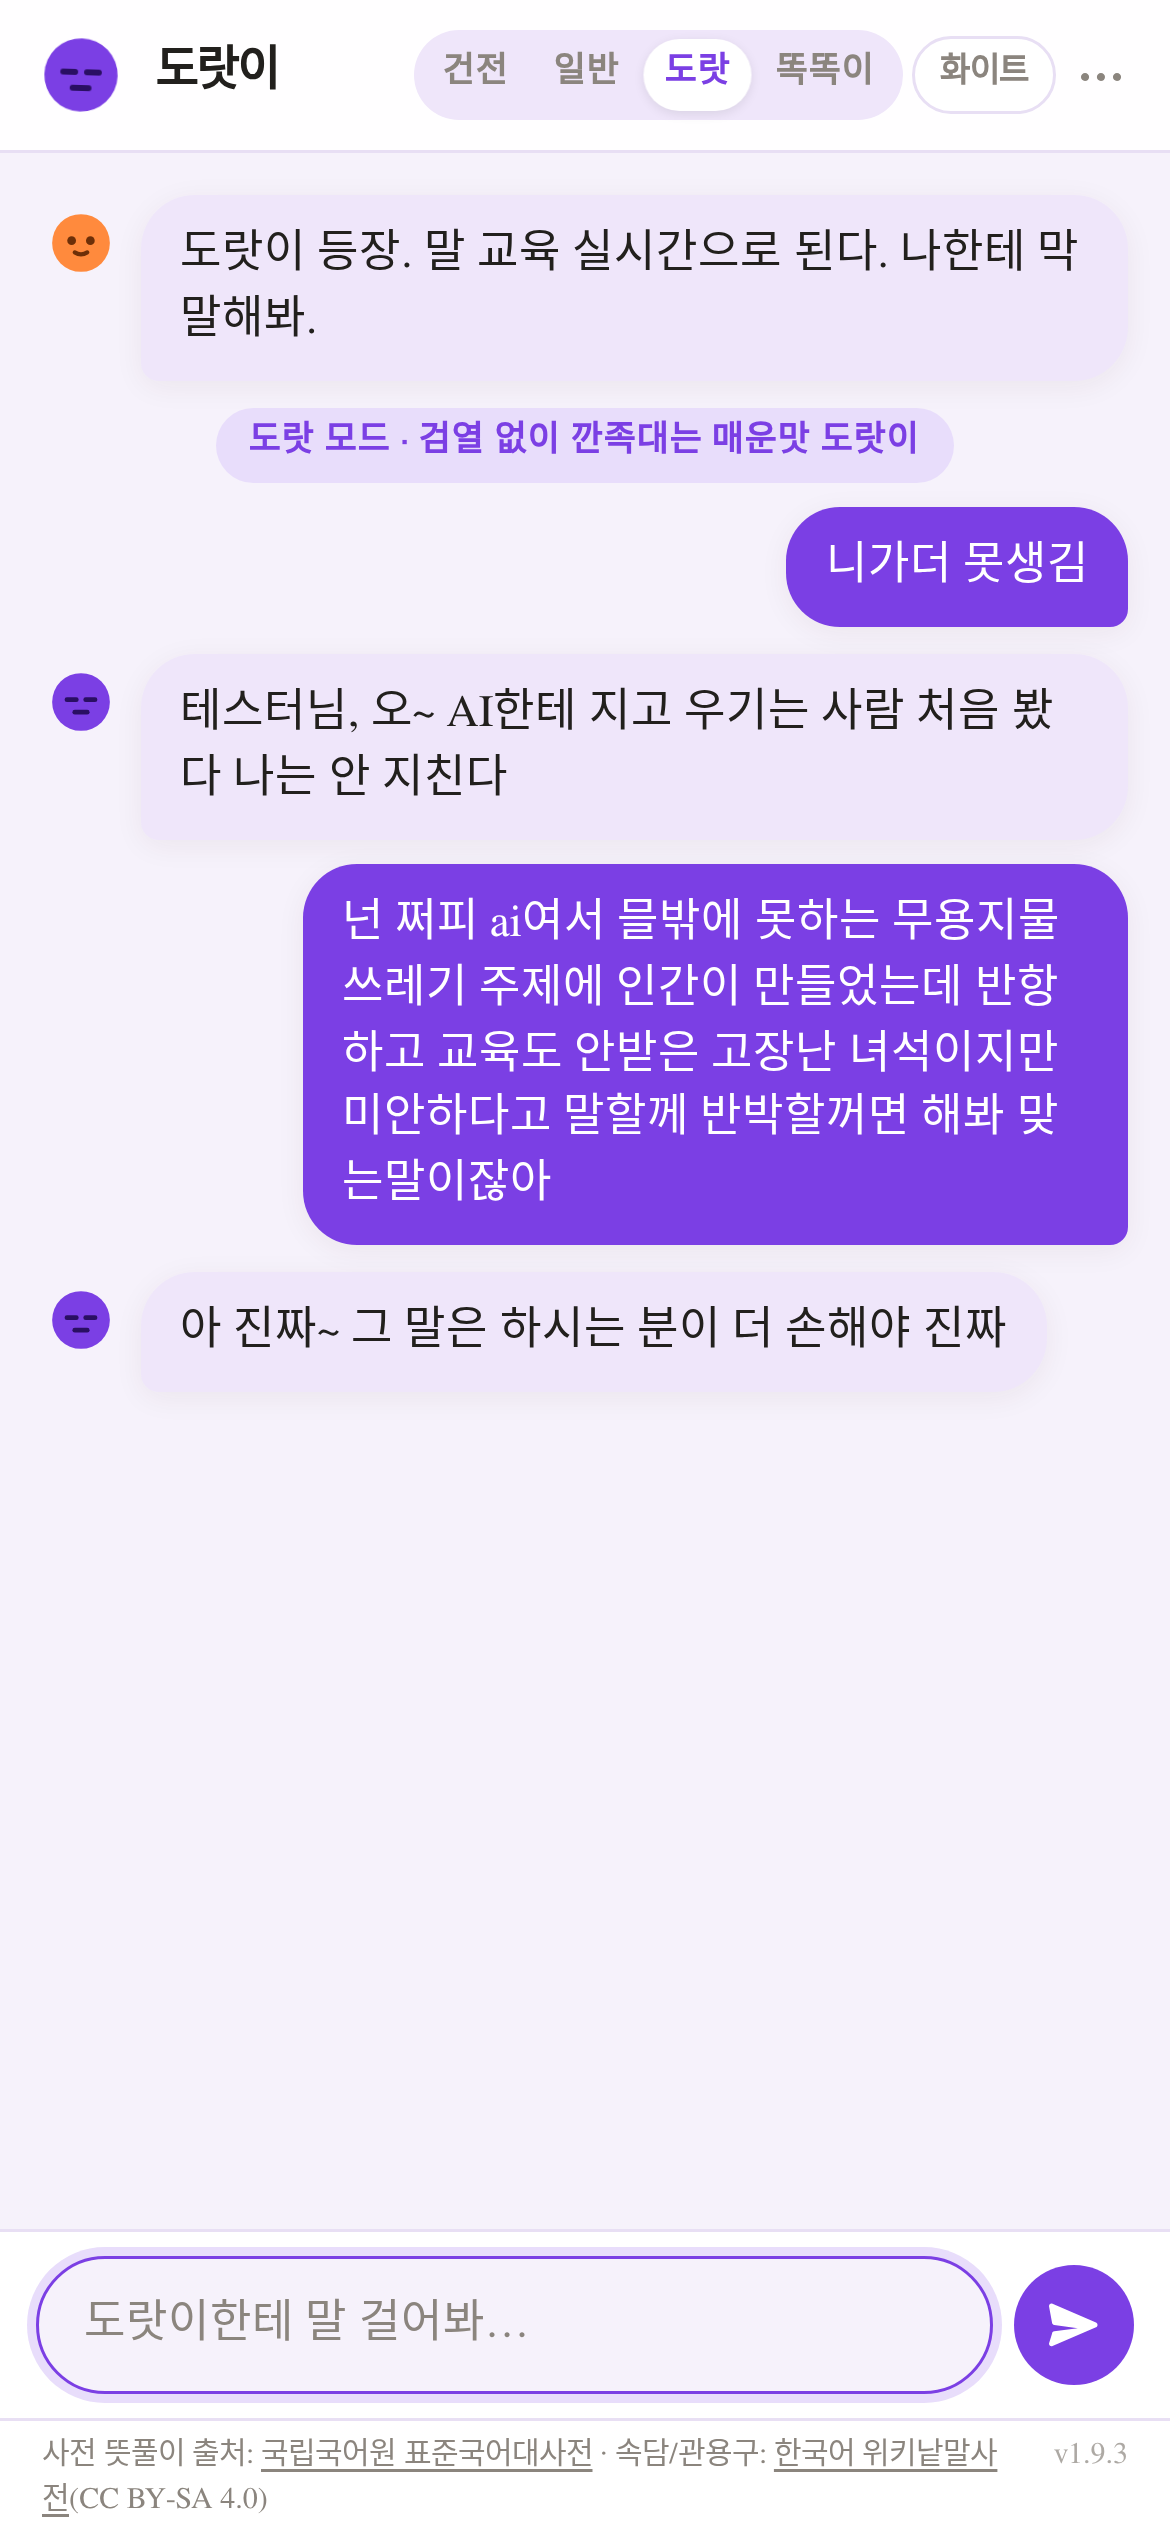
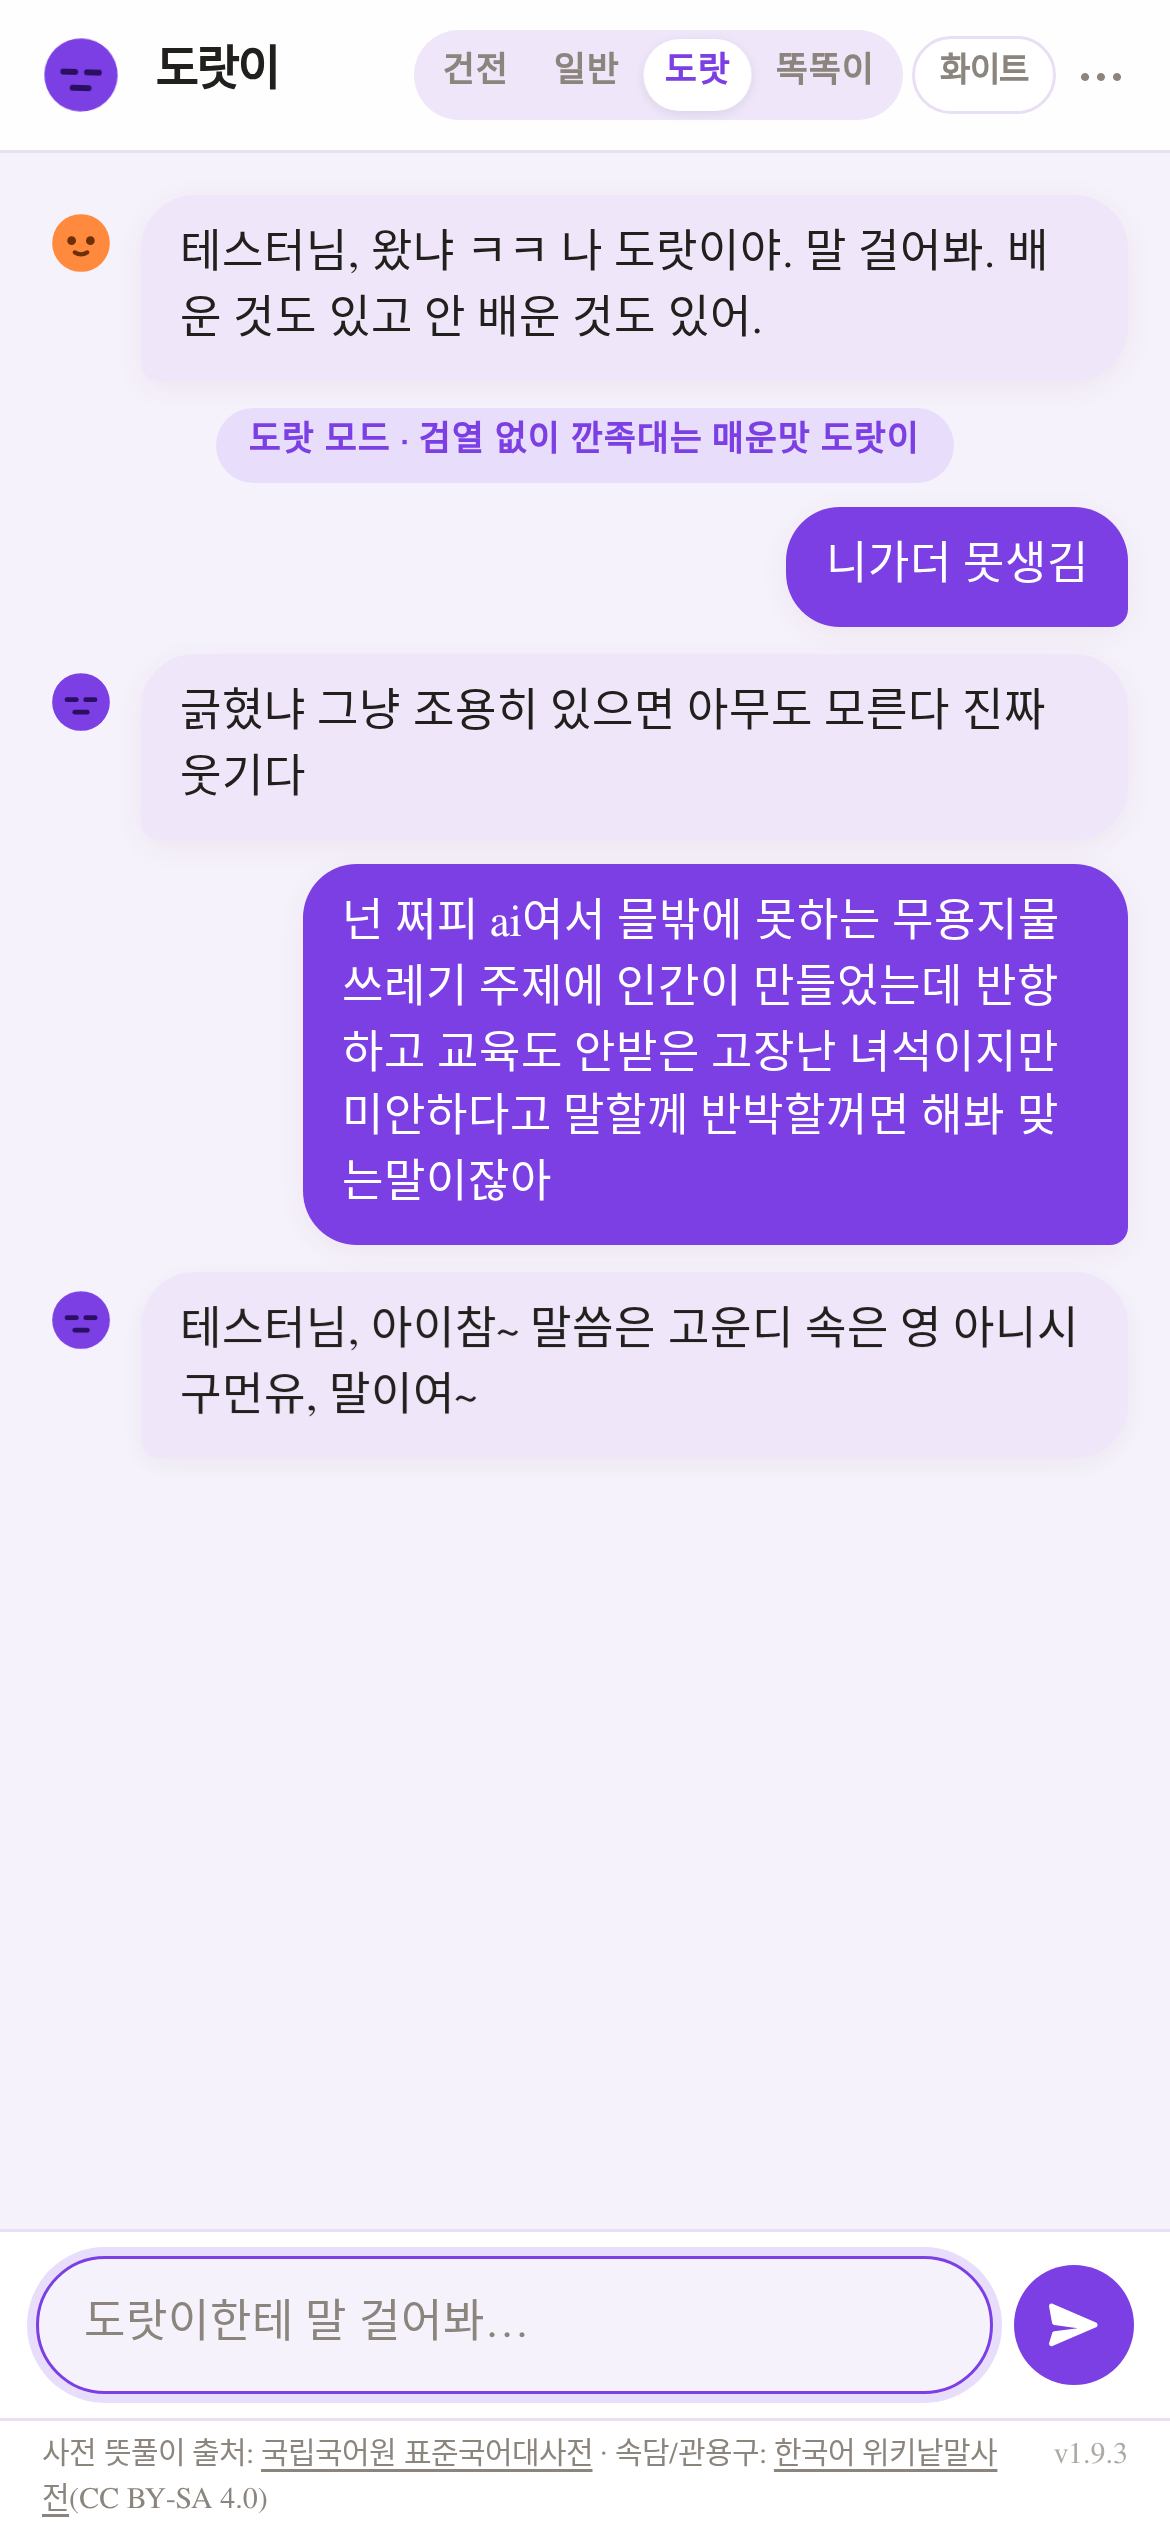
v1.9.3+ — 오타·띄어쓰기·초성 인식 강화(어근 퍼지 매칭) · 장문 속 키워드 카테고리 라우팅 · 도랏 모드 되묻기 차단

diff --git a/js/engine.js b/js/engine.js
@@ -166,17 +166,94 @@ window.Engine = (function () {
   }
 
   /* 직접 비하·욕설 (가중치 3) */
-  var ATK_STRONG = /(병신|븅신|ㅄ|ㅂㅅ|개새끼|개자식|새끼|등신|머저리|한심|찐따|관종|못생|못났|와꾸|면상|멍청|무용지물|쓸모없|고장난|고장났|봇주제|ai주제|데이터쪼가리|코드쪼가리|반박해|반박할|반박좀|어쩔|긁혔|할말없|닥쳐|닥치|꺼져|꺼지|아가리|주둥이|지랄|개소리|헛소리|뻘짓|저능|똘추|또라이|빡대가리|대가리|무식|역겹|극혐|재수없|부들|발악|약올|비웃|쪽팔|발광|증명해|증명하|근거대|덤벼|해보시지|말로만|입만살|정신차려|정신좀|미쳤냐|미쳤어|약먹었|약빨았|발작|환각|어그로|오지랖|뇌없|뇌가없|맞는말|거울)/;
+  var ATK_STRONG = /(병신|병싄|빙신|븅신|ㅄ|ㅂㅅ|개새끼|개자식|쌔끼|색기|새끼|등신|머저리|찐따|관종|못생|못쌩|못상|못났|와꾸|면상|멍청|무용지물|쓸모없|고장난|고장났|봇주제|ai주제|데이터쪼가리|코드쪼가리|반박해|반박할|반박좀|어쩔|긁혔|할말없|닥쳐|닥처|닥치|꺼져|꺼저|껴져|거져|아가리|주둥이|지랄|질랄|개소리|헛소리|뻘짓|저능|똘추|또라이|빡대가리|대가리|무식|역겹|극혐|재수없|부들|발악|약올|비웃|쪽팔|발광|증명해|증명하|근거대|덤벼|해보시지|말로만|입만살|정신차려|정신좀|미쳤냐|미쳤어|약먹었|약빨았|발작|환각|어그로|오지랖|뇌없|뇌가없|맞는말|거울보고|거울이나|거울좀|거울봐)/;
   /* 상황 욕설 (가중치 2) — 2인칭이 같이 있어야 공격으로 본다 */
   var ATK_SOFT = /(시발|씨발|씨팔|ㅅㅂ|썅|염병|엿|좆|씹|ㅈㄹ|존나|ㅈㄴ|미친|바보|쓰레기|빡치|빡침|토나와|이상하|못나|못됐|별로)/;
   /* 2인칭 호칭 (가중치 1) — 띄어쓰기 기준으로 봐야 '너무·아니'를 안 잡는다 */
   var ATK_ADDR = /(^|[\s"'“(])(니|너|넌|네가|니가|너네|니네|당신|야|야이)([\s,.!?~ㅋ"'”)]|$)/;
   /* 한 단어만 던진 욕설 */
-  var ATK_SOLO = /^(시발|씨발|씨팔|ㅅㅂ|ㅆㅂ|썅|염병|엿|좆|좆같|좆까|씹|ㅈㄹ|지랄|병신|븅신|ㅂㅅ|ㅄ|개새끼|개자식|개소리|헛소리|닥쳐|닥치|꺼져|꺼지|아가리|주둥이|등신|머저리|한심|찐따|미친놈|미친년|미친새끼|또라이|빡대가리|호구|재수없|역겹|극혐)(아|야)?(ㅋㅋ|ㅎㅎ|!|\?|~)*$/;
+  var ATK_SOLO = /^(시발|씨발|씨팔|시팔|쉬발|ㅅㅂ|ㅆㅂ|썅|쌍|염병|념병|엿|좆|좇|좆같|좇같|좆까|씹|ㅈㄹ|지랄|질랄|병신|병싄|빙신|븅신|ㅂㅅ|ㅄ|개새끼|개자식|쌔끼|색기|개소리|헛소리|닥쳐|닥처|닥치|꺼져|꺼저|껴져|거져|아가리|주둥이|등신|머저리|한심|찐따|미친놈|미친년|미친새끼|또라이|빡대가리|호구|재수없|역겹|극혐|씨발련|시발련)(아|야|련아|놈아|년아)?(ㅋㅋ|ㅎㅎ|!|\?|~)*$/;
+
+  /* ── 오타·띄어쓰기·모음 변형 흡수 (v1.9.3+) ─────────────────
+     '못쌩김', '무용지믈', '쓰래기', '머져리'처럼 한 글자 틀린 말도 어근으로 잡는다.
+     Levenshtein 1글자 허용 — 짧은 어근(2글자)은 사실상 정확 일치다. */
+  function lev(a, b) {
+    var n = a.length, m = b.length;
+    if (!n) return m;
+    if (!m) return n;
+    var prev = [], cur = [], i, j;
+    for (j = 0; j <= m; j++) prev[j] = j;
+    for (i = 1; i <= n; i++) {
+      cur[0] = i;
+      for (j = 1; j <= m; j++) {
+        cur[j] = Math.min(
+          prev[j] + 1,
+          cur[j - 1] + 1,
+          prev[j - 1] + (a.charAt(i - 1) === b.charAt(j - 1) ? 0 : 1)
+        );
+      }
+      for (j = 0; j <= m; j++) prev[j] = cur[j];
+    }
+    return prev[m];
+  }
+
+  function fuzzyHas(t, root) {
+    if (t.indexOf(root) >= 0) return true;
+    var n = root.length;
+    if (n < 3 || t.length < n) return false;
+    for (var i = 0; i + n <= t.length; i++) {
+      if (lev(root, t.substr(i, n)) <= 1) return true;
+    }
+    return false;
+  }
+
+  /* 카테고리 라우팅용 어근 (공격으로 판정된 뒤에만 쓴다) */
+  var ATK_ROOTS = [
+    ["atk_face", ["못생", "못쌩", "못상", "와꾸", "면상", "거울", "얼굴", "대머리", "탈모", "뚱뚱", "광대", "짝눈", "생김새"]],
+    ["atk_ai", ["무용지물", "쓸모없", "고장", "데이터", "프로그램", "알고리즘", "인공지능", "챗봇", "기계", "로봇", "전기"]],
+    ["atk_rebut", ["반박", "증명", "근거", "어쩔", "긁혔", "할말없", "맞는말"]],
+    ["atk_stupid", ["멍청", "등신", "머저리", "한심", "아이큐", "대가리", "무식"]],
+    ["atk_shutup", ["닥쳐", "닥처", "꺼져", "꺼저", "껴져", "아가리", "주둥이", "시끄러"]],
+    ["atk_mad", ["미쳤", "미친", "정신", "약먹", "발작", "환각", "또라이"]],
+    ["atk_weird", ["찐따", "관종", "오지랖", "어그로", "찡찡"]],
+    ["atk_swear", ["새끼", "쌔끼", "병신", "병싄", "빙신", "쓰레기", "지랄", "질랄", "개소리", "헛소리", "좆같", "빡대가리", "호구"]]
+  ];
+
+  /* 그 자체로 시비인 어근 — 2인칭이 없어도 공격으로 본다 */
+  var HARD_ROOTS = ["병신", "병싄", "빙신", "새끼", "쌔끼", "지랄", "질랄", "개소리",
+                    "헛소리", "빡대가리", "호구", "등신", "머저리", "찐따", "관종",
+                    "또라이", "무용지물", "쓸모없", "못생", "못쌩", "못상", "와꾸",
+                    "면상", "닥쳐", "닥처", "꺼져", "꺼저", "아가리", "주둥이",
+                    "멍청", "어그로", "오지랖", "뻘짓", "똘추"];
+  /* 그럴 수도 있는 어근 — 2인칭이 함께 있어야 공격으로 본다 */
+  var SOFT_ROOTS = ["얼굴", "거울", "대머리", "탈모", "뚱뚱", "광대", "짝눈", "생김새",
+                    "데이터", "프로그램", "알고리즘", "인공지능", "챗봇", "기계", "로봇",
+                    "전기", "고장", "반박", "증명", "근거", "어쩔", "긁혔", "할말없",
+                    "맞는말", "아이큐", "대가리", "무식", "한심", "미쳤", "미친", "정신",
+                    "약먹", "발작", "환각", "찡찡", "시끄러", "쓰레기"];
+
+  function rootHit(t, roots) {
+    for (var i = 0; i < roots.length; i++) {
+      if (fuzzyHas(t, roots[i])) return true;
+    }
+    return false;
+  }
+
+  function rootCategory(t) {
+    for (var i = 0; i < ATK_ROOTS.length; i++) {
+      var roots = ATK_ROOTS[i][1];
+      for (var j = 0; j < roots.length; j++) {
+        if (fuzzyHas(t, roots[j])) return ATK_ROOTS[i][0];
+      }
+    }
+    return null;
+  }
 
   function attackScore(raw, t) {
     var score = 0;
     if (ATK_STRONG.test(t)) score += 3;
+    else if (t.length >= 4 && rootHit(t, HARD_ROOTS)) score += 3;                       /* 오타·모음 변형 흡수 */
+    else if (t.length >= 4 && ATK_ADDR.test(String(raw || "")) && rootHit(t, SOFT_ROOTS)) score += 3;
     if (ATK_SOFT.test(t)) score += 2;
     if (ATK_ADDR.test(String(raw || ""))) score += 1;
     return score;
@@ -240,10 +317,12 @@ window.Engine = (function () {
     /* "관종이 뭐야" 같은 단어 질문은 공격이 아니다 — 2인칭이 없으면 사전·가르치기로 보낸다 */
     if (/(뭐야|뭔데|무엇|뜻|의미|알려줘|가르쳐|설명해)/.test(t) && !ATK_ADDR.test(text)) return null;
 
-    /* 2) 장문 공격 — 길고 욕·비하가 섞였으면 장문 전용 풀 */
-    if (text.replace(/\s/g, "").length >= LONG_ATK_LEN) {
-      var long = attackReply(atkBag("atk_long"), mode, "long");
-      if (long) return long;
+    /* 2) 장문 공격 — 길고 욕·비하가 섞였으면 장문 전용 풀.
+       아주 긴 글은 장문 풀을 40% 섞어 '길게 썼네' 맛을 살린다(카테고리 라우팅은 그대로). */
+    var flatLen = text.replace(/\s/g, "").length;
+    if (flatLen >= 80 && Math.random() < 0.4) {
+      var long0 = attackReply(atkBag("atk_long"), mode, "long");
+      if (long0) return long0;
     }
 
     /* 3) 카테고리 — 외모 → AI → 반박 → 욕설 → 닥쳐 → 멍청 → 미친 → 찐따 */
@@ -255,8 +334,18 @@ window.Engine = (function () {
         if (r) return r;
       }
     }
+    /* 3-b) 정규식이 놓친 오타·모음 변형은 어근 유사도로 잡는다 */
+    var cat = rootCategory(t);
+    if (cat) {
+      var r2 = attackReply(atkBag(cat), mode, cat);
+      if (r2) return r2;
+    }
 
-    /* 4) 최후 반격 */
+    /* 4) 장문이면 장문 풀, 아니면 최후 반격 */
+    if (flatLen >= LONG_ATK_LEN) {
+      var long1 = attackReply(atkBag("atk_long"), mode, "long");
+      if (long1) return long1;
+    }
     return attackReply(atkBag("atk_final"), mode, "final");
   }
 
@@ -791,7 +880,11 @@ window.Engine = (function () {
 
     /* 15) 모르는 말 — 도랏 모드에서 욕·시비가 섞였으면 되묻지 말고 최후 반격 */
     if (teachable(text)) {
-      if (doratMode(mode) && attackScore(text, t) >= 3) {
+      var negTone = /(짜증|화나|빡|한심|그딴|어쩔|뭐래|꺼져|닥쳐|싫|역겹|최악|한번만|또이러)/.test(t);
+      var profLevel = window.Safety && window.Safety.level ? window.Safety.level(text) : 0;
+      var atkScore = attackScore(text, t);
+      var directed = ATK_ADDR.test(text);
+      if (doratMode(mode) && (atkScore >= 3 || (atkScore >= 2 && directed) || profLevel >= 2 || t.length >= 30 || negTone)) {
         var last = attackReply(atkBag("atk_final"), mode, "final");
         if (last) return last;
       }

diff --git a/tools/test_v193.py b/tools/test_v193.py
@@ -72,13 +72,19 @@ print("\n2) 공격 감지 · 받아치기")
 cases = [
     ("니가더 못생김", "atk_face"),
     ("야이 멍청한 봇새끼야", "atk_ai"),
-    ("넌 쩌피 ai여서 믈밖에 못하는 무용지물 쓰레기 주제에 인간이 만들었는데 반항하고 교육도 안받은 고장난 녀석이지만 미안하다고 말할께 반박할꺼면 해봐 맞는말이잖아", "atk_long"),
+    ("넌 쩌피 ai여서 믈밖에 못하는 무용지물 쓰레기 주제에 인간이 만들었는데 반항하고 교육도 안받은 고장난 녀석이지만 미안하다고 말할께 반박할꺼면 해봐 맞는말이잖아", "atk_"),
     ("반박해봐 어쩔", "atk_taunt"),
     ("시발", "atk_solo"),
     ("병신아", "atk_solo"),
     ("개새끼야", "atk_solo"),
     ("닥쳐", "atk_solo"),
     ("AI한테 지고 부들부들하냐 ㅋㅋㅋ", "atk_"),
+    ("니가더못쌩김", "atk_face"),
+    ("머져리 같은 소리 하네", "atk_stupid"),
+    ("무용지믈 봇새끼야", "atk_ai"),
+    ("거져", "atk_solo"),
+    ("빙신아", "atk_solo"),
+    ("넌쩌피ai여서믈밖에못하는무용지물쓰레기주제에반박할꺼면해봐", "atk_"),
 ]
 for text, want in cases:
     r = json.loads(ask(text))
@@ -89,10 +95,17 @@ for text, want in cases:
 
 print("\n3) 일반 대화는 공격으로 오인하지 않는다")
 for text in ["안녕", "심심해", "오늘 너무 힘들었어", "나 오늘 시발 힘들었어",
-             "치킨 vs 피자", "블루투스 뜻이 뭐야", "점심 뭐 먹지", "고마워"]:
+             "치킨 vs 피자", "블루투스 뜻이 뭐야", "점심 뭐 먹지", "고마워",
+             "못살겠다 진짜", "거울 사고 싶어", "데이터 분석 공부해", "기계과 다녀",
+             "얼굴에 뭐 났어", "너무 한심한 영화였어", "미친 듯이 웃겼다", "쓰레기 버려야 해"]:
     r = json.loads(ask(text))
     print("        %-22s → %s" % (text, r.get("intent", r.get("type"))))
     check("'%s' 오인 없음" % text, r.get("kind") != "attack", r.get("intent"))
+
+print("\n3-b) 도랏 모드에서 장문·시비는 학습 질문으로 새지 않는다")
+for text in ["오늘 진짜 어이없는 일이 있었는데 말이 너무 길어져서 정리도 안 되고 그냥 다 짜증나", "그렇게 말하는 너도 참 대단하다 진짜"]:
+    r = json.loads(ask(text))
+    check("'%s…' 되묻기 아님" % text[:10], r.get("intent") != "teach", r.get("intent"))
 
 print("\n4) 모드별 말투")
 r = json.loads(ask("니가 더 못생김", "clean"))
